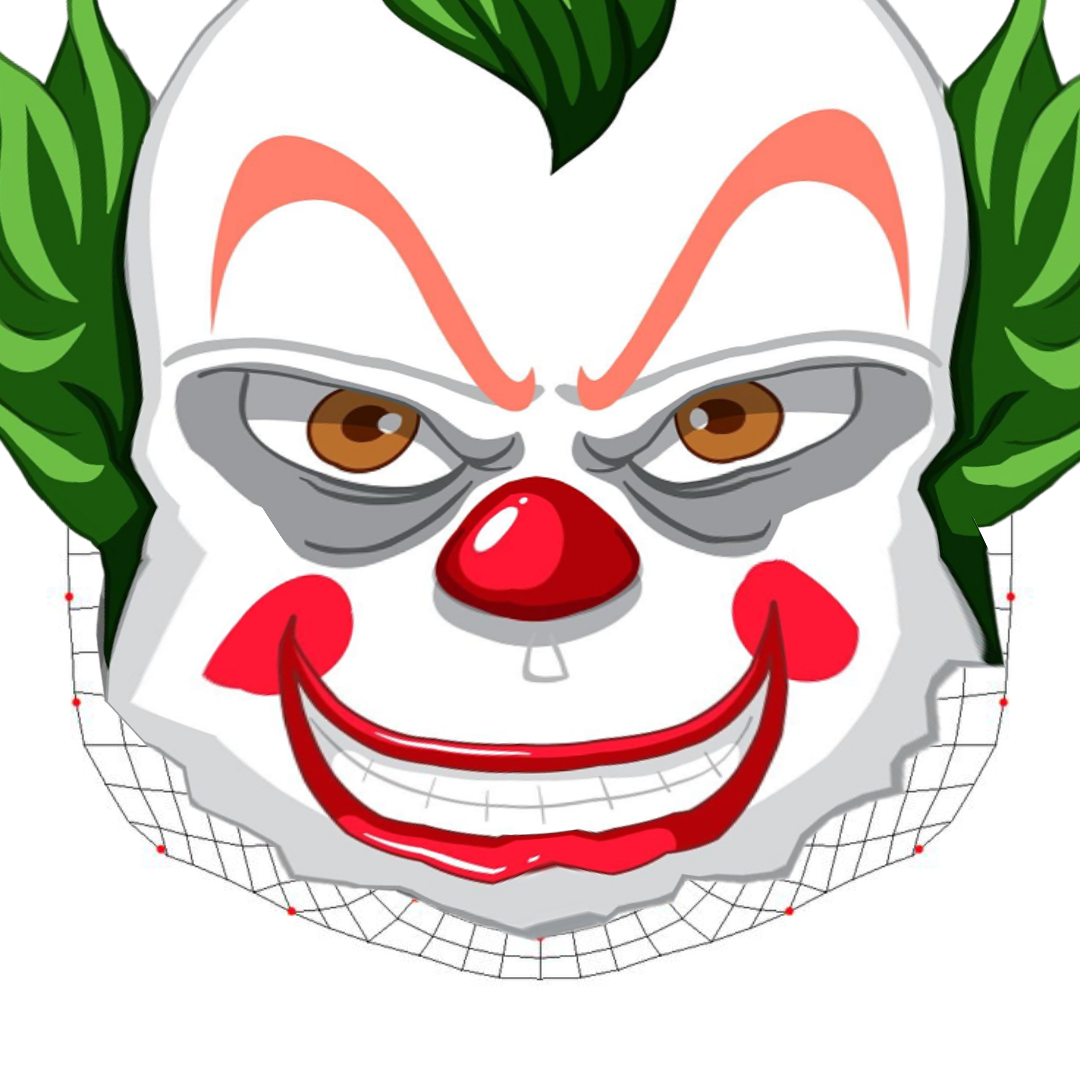
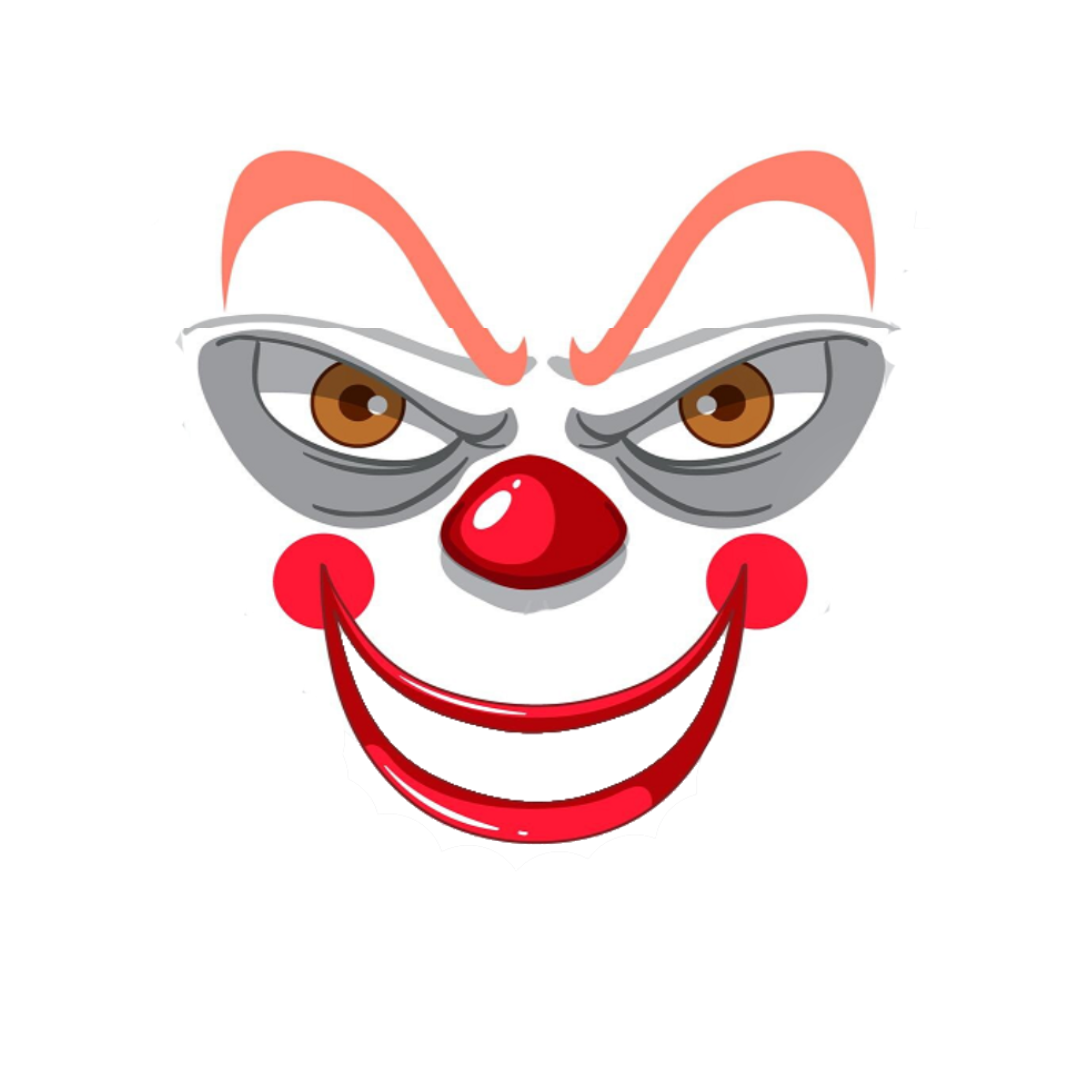
final

diff --git a/index.html b/index.html
@@ -52,6 +52,7 @@
         color: white;
         font-size: 16px;
       }
+
       #C{
         background-color: white;
       }
@@ -77,6 +78,10 @@
         color: #000;
         font-size: 16px;
       }
+      .filter > img {
+        width: 100%;
+        height: 100%;
+      }
       #formDiv{
         position: absolute;
         top: 50%;
@@ -98,11 +103,21 @@
       <button class="control CC" id="F">F</button>
     </div>
     <div id="filters" class="CC">
-      <div id="f0" class="filter CC">f0</div>
-      <div id="f1" class="filter CC">f1</div>
-      <div id="f2" class="filter CC">f2</div>
-      <div id="f3" class="filter CC">f3</div>
-      <div id="f4" class="filter CC">f4</div>
+      <div id="f0" class="filter CC">
+        <img src="./assets/eye.jpg"  alt="">
+      </div>
+      <div id="f1" class="filter CC">
+        <img src="./assets/myMask1.png"  alt="">
+      </div>
+      <div id="f2" class="filter CC">
+        <img src="./assets/myMask2.png"  alt="">
+      </div>
+      <div id="f3" class="filter CC">
+        <img src="./assets/lock.png"  alt="">
+      </div>
+      <div id="f4" class="filter CC">
+        <img src="./assets/lock.png"  alt="">
+      </div>
     </div>
     <div id="formDiv" class="CC"></div>
     <script src="script.js" type="module"></script>

diff --git a/script.js b/script.js
@@ -93,7 +93,7 @@ btnF1.addEventListener("click", () => {
 });
 btnF2.addEventListener("click", () => {
   if(is3D) resetFilter3D();
-  setMask2D(1);
+  setMask2D(2);
 });
 btnF3.addEventListener("click", () => {
   if(is3D) resetFilter3D();
